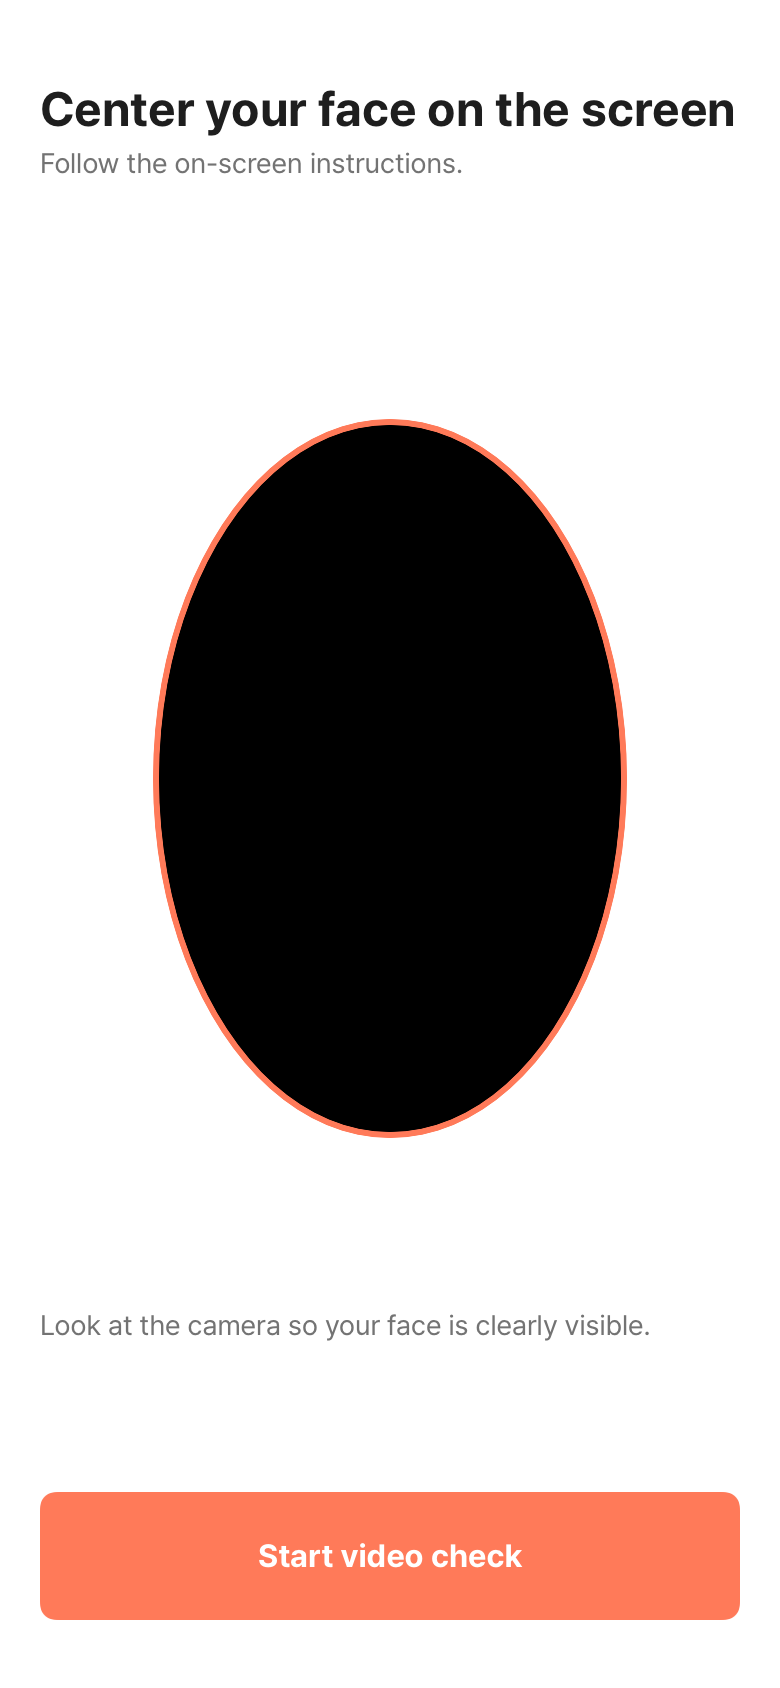
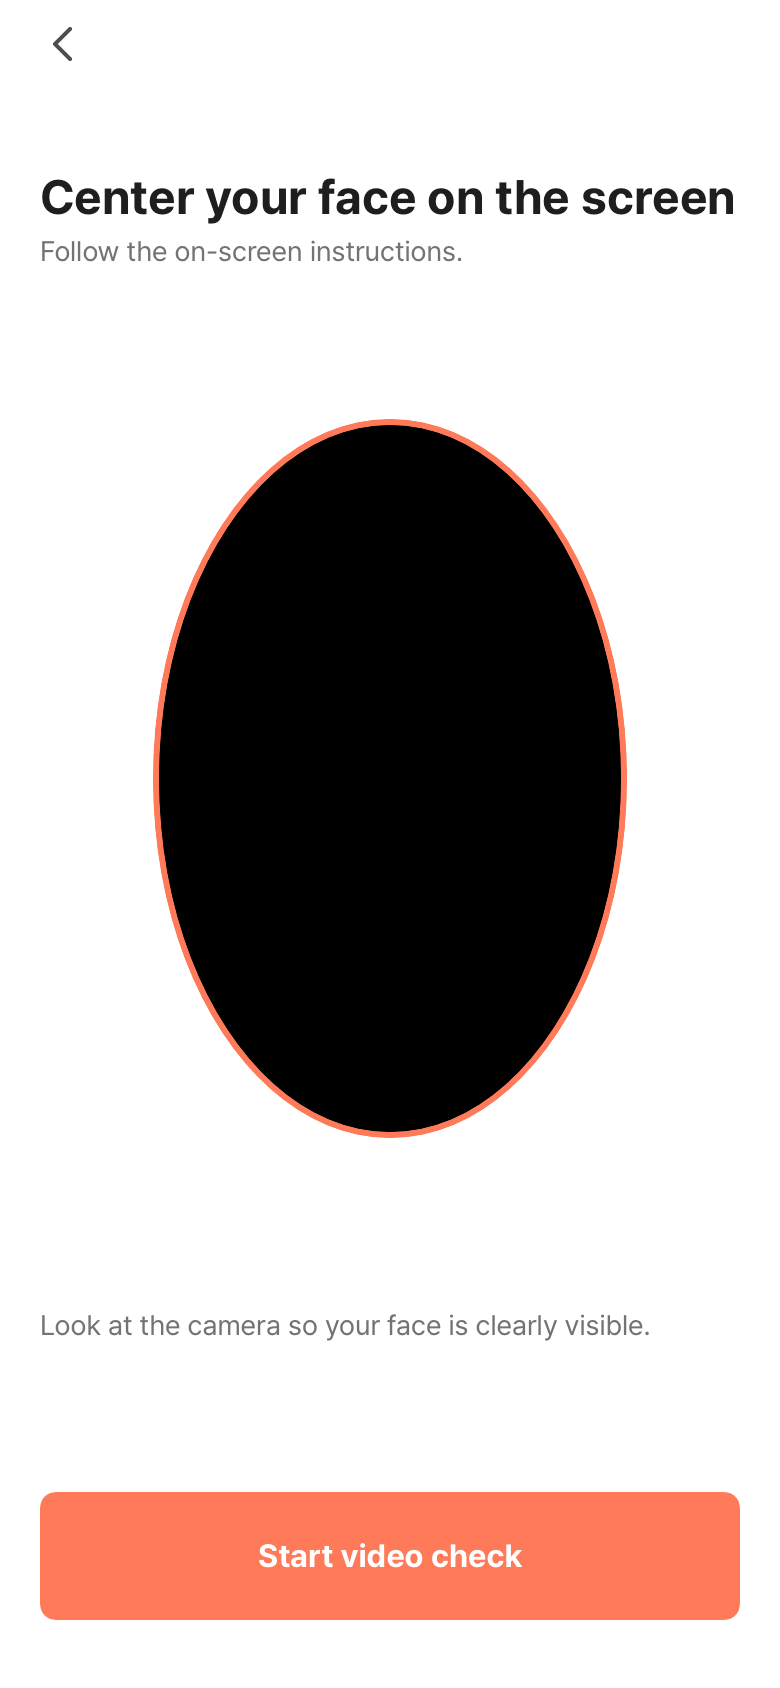
feat(liveness): 준비 화면에 도면의 뒤로가기 추가

Changed region(s): [[0.0308, 0.0, 0.9538, 0.154]]

diff --git a/Sources/FaceLiveness/Views/GetReadyPage/GetReadyPageView.swift b/Sources/FaceLiveness/Views/GetReadyPage/GetReadyPageView.swift
@@ -11,37 +11,83 @@ struct GetReadyPageView: View {
     let beginCheckButtonDisabled: Bool
     let onBegin: () -> Void
     let cameraPosition: LivenessCamera
-    
+    let onBack: () -> Void
+
     init(
         onBegin: @escaping () -> Void,
         beginCheckButtonDisabled: Bool = false,
-        cameraPosition: LivenessCamera
+        cameraPosition: LivenessCamera,
+        onBack: @escaping () -> Void
     ) {
         self.onBegin = onBegin
         self.beginCheckButtonDisabled = beginCheckButtonDisabled
         self.cameraPosition = cameraPosition
+        self.onBack = onBack
     }
 
     var body: some View {
+        GeometryReader { proxy in
+            content(
+                titleTop: proxy.size.height < KTalkCaptureStyle.compactHeight
+                    ? KTalkCaptureStyle.titleTopCompact
+                    : KTalkCaptureStyle.titleTopFromNavBar
+            )
+            .frame(width: proxy.size.width, height: proxy.size.height)
+        }
+    }
+
+    private func content(titleTop: CGFloat) -> some View {
         VStack {
             ZStack {
                 CameraPreviewView(cameraPosition: cameraPosition)
-                VStack(alignment: .leading, spacing: KTalkCaptureStyle.titleToDescription) {
-                    Text("amplify_ui_liveness_challenge_title".localized())
-                        .font(KTalkCaptureStyle.title)
-                        .foregroundColor(KTalkCaptureStyle.titleColor)
-                    Text("amplify_ui_liveness_challenge_description".localized())
-                        .font(KTalkCaptureStyle.description)
-                        .foregroundColor(KTalkCaptureStyle.descriptionColor)
+                VStack(alignment: .leading, spacing: 0) {
+                    backButton
+                    VStack(alignment: .leading, spacing: KTalkCaptureStyle.titleToDescription) {
+                        Text("amplify_ui_liveness_challenge_title".localized())
+                            .font(KTalkCaptureStyle.title)
+                            .foregroundColor(KTalkCaptureStyle.titleColor)
+                        Text("amplify_ui_liveness_challenge_description".localized())
+                            .font(KTalkCaptureStyle.description)
+                            .foregroundColor(KTalkCaptureStyle.descriptionColor)
+                    }
+                    .padding(.horizontal, KTalkCaptureStyle.sideMargin)
+                    .padding(.top, titleTop)
                     Spacer()
                 }
                 .frame(maxWidth: .infinity, alignment: .leading)
-                .padding(.horizontal, KTalkCaptureStyle.sideMargin)
-                .padding(.top, KTalkCaptureStyle.titleTopFromNavBar)
             }
             beginCheckButton
         }
         .background(Color.white.ignoresSafeArea())
+    }
+
+    // KTalk fork: 도면의 Navigation_Bar 44 와 그 안의 Icon/Back 24.
+    private var backButton: some View {
+        Button(action: onBack) {
+            BackChevron()
+                .stroke(
+                    KTalkCaptureStyle.backIconColor,
+                    style: StrokeStyle(
+                        lineWidth: KTalkCaptureStyle.backIconLineWidth,
+                        lineCap: .round,
+                        lineJoin: .round
+                    )
+                )
+                .frame(
+                    width: KTalkCaptureStyle.backIconSize,
+                    height: KTalkCaptureStyle.backIconSize
+                )
+                .padding(.leading, KTalkCaptureStyle.sideMargin)
+                .frame(
+                    width: KTalkCaptureStyle.backButtonWidth,
+                    height: KTalkCaptureStyle.navBarHeight,
+                    alignment: .leading
+                )
+                .contentShape(Rectangle())
+        }
+        .accessibilityLabel(
+            Text("amplify_ui_liveness_challenge_a11y_back_content_description".localized())
+        )
     }
 
     // KTalk fork: 보조 문구와 시작 버튼. 동작은 그대로 onBegin 이다.
@@ -68,10 +114,23 @@ struct GetReadyPageView: View {
     }
 }
 
+/// KTalk fork: the app's own back chevron (assets/icons/arrow/24-chevron-left.svg).
+private struct BackChevron: Shape {
+    func path(in rect: CGRect) -> Path {
+        let scale = rect.width / 24
+        var path = Path()
+        path.move(to: CGPoint(x: 15 * scale, y: 4.5 * scale))
+        path.addLine(to: CGPoint(x: 7.5 * scale, y: 12 * scale))
+        path.addLine(to: CGPoint(x: 15 * scale, y: 19.5 * scale))
+        return path
+    }
+}
+
 struct GetReadyPageView_Previews: PreviewProvider {
     static var previews: some View {
         GetReadyPageView(
             onBegin: {},
-            cameraPosition: .front)
+            cameraPosition: .front,
+            onBack: {})
     }
 }

diff --git a/Sources/FaceLiveness/Utilities/KTalkCaptureStyle.swift b/Sources/FaceLiveness/Utilities/KTalkCaptureStyle.swift
@@ -18,9 +18,19 @@ enum KTalkCaptureStyle {
     static let titleColor = Color(UIColor(red: 0x1E / 255, green: 0x1E / 255, blue: 0x1E / 255, alpha: 1))
     static let descriptionColor = Color(UIColor(red: 0x73 / 255, green: 0x73 / 255, blue: 0x73 / 255, alpha: 1))
 
+    // app: the back chevron stroke in assets/icons/arrow/24-chevron-left.svg
+    static let backIconColor = Color(UIColor(red: 0x4E / 255, green: 0x4E / 255, blue: 0x4E / 255, alpha: 1))
+
     // frame values
     static let sideMargin: CGFloat = 20
+    static let navBarHeight: CGFloat = 44
+    static let backButtonWidth: CGFloat = 52
+    static let backIconSize: CGFloat = 24
+    static let backIconLineWidth: CGFloat = 2
     static let titleTopFromNavBar: CGFloat = 40
+    // Compact displays have no frame of their own; keep the title clear of the SDK oval.
+    static let compactHeight: CGFloat = 700
+    static let titleTopCompact: CGFloat = 8
     static let titleToDescription: CGFloat = 4
     static let hintToButton: CGFloat = 75
     static let buttonHeight: CGFloat = 64

diff --git a/Sources/FaceLiveness/Views/Liveness/FaceLivenessDetectionView.swift b/Sources/FaceLiveness/Views/Liveness/FaceLivenessDetectionView.swift
@@ -215,7 +215,17 @@ public struct FaceLivenessDetectorView: View {
                     displayState = .displayingLiveness
                 },
                 beginCheckButtonDisabled: false,
-                cameraPosition: cameraPosition
+                cameraPosition: cameraPosition,
+                // 촬영 중 닫기 버튼과 같은 취소 경로다. 소켓을 사용자 취소 코드로
+                // 닫고 종료 사유를 그대로 호출부에 돌려준다.
+                onBack: {
+                    let cancelled = LivenessStateMachine.LivenessError.userCancelled
+                    viewModel.livenessService?.closeSocket(
+                        with: cancelled.webSocketCloseCode ?? .normalClosure
+                    )
+                    isPresented = false
+                    onCompletion(.failure(.userCancelled))
+                }
             )
             .onAppear {
                 setBrightnessToMax()

diff --git a/Tests/FaceLivenessTests/GetReadyPageViewTests.swift b/Tests/FaceLivenessTests/GetReadyPageViewTests.swift
@@ -23,7 +23,8 @@ final class GetReadyPageViewTests: XCTestCase {
         defer { FaceLivenessAppearance.accentARGB = previousAccent }
         let view = GetReadyPageView(
             onBegin: {},
-            cameraPosition: .front
+            cameraPosition: .front,
+            onBack: {}
         )
         .environment(\.colorScheme, .dark)
         let renderer = ImageRenderer(content: view.frame(width: size.width, height: size.height))
